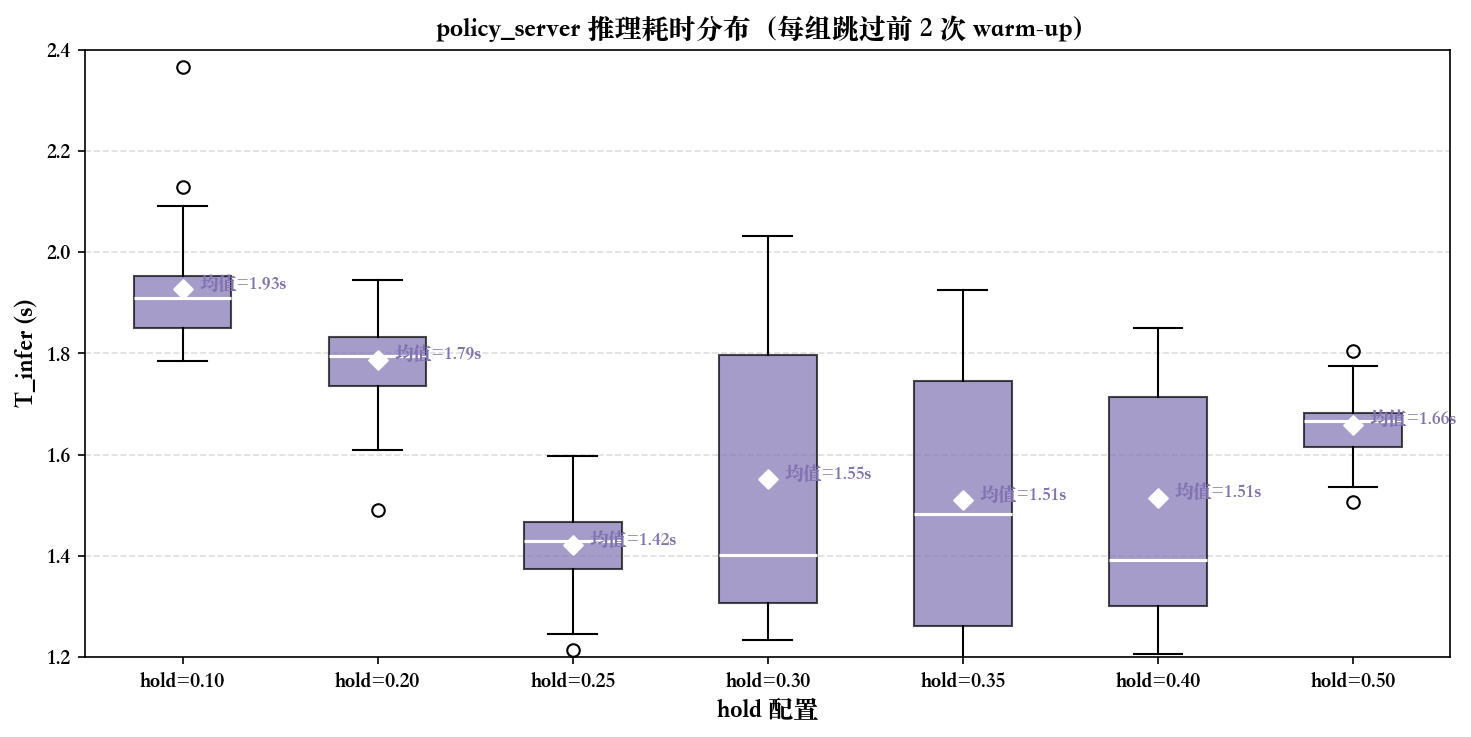
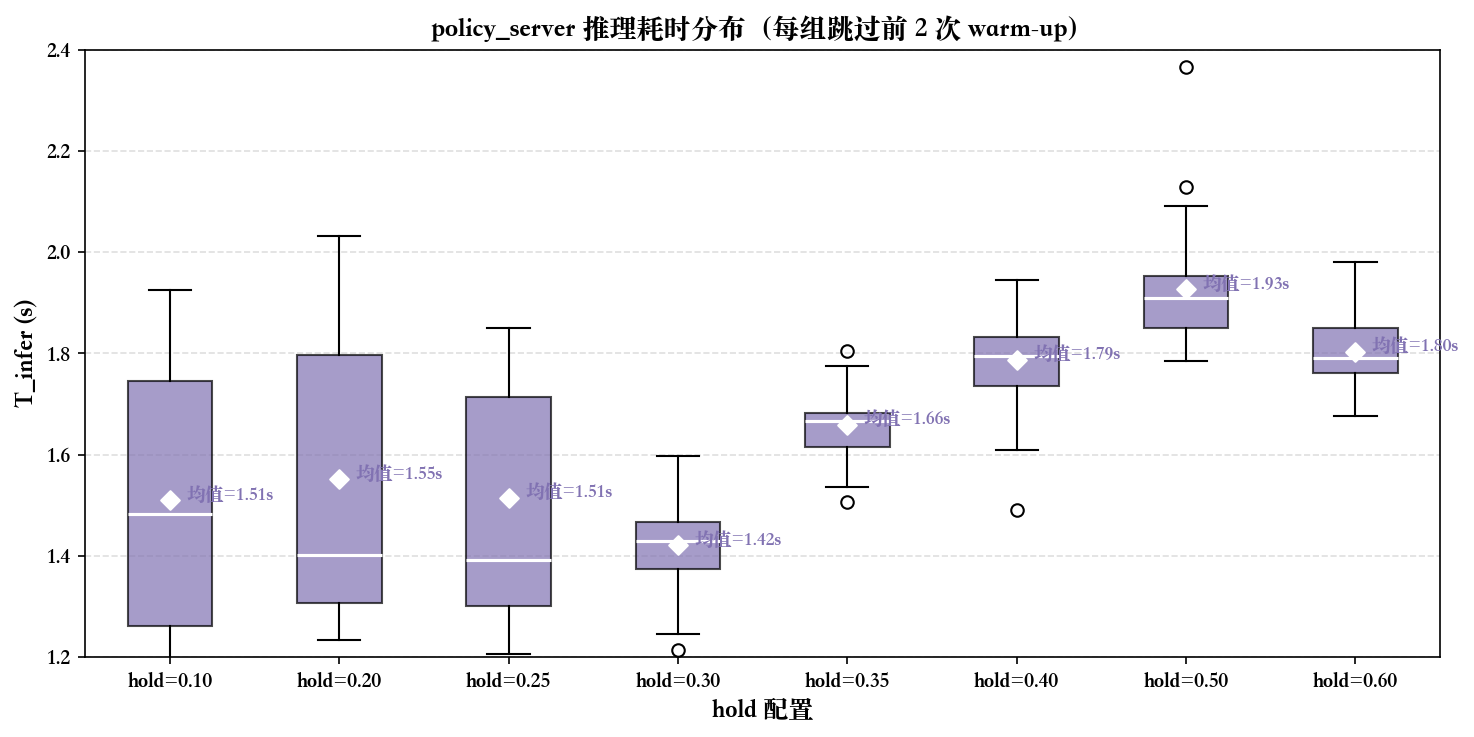
feat: 更新异步推理分析数据，调整数据合并和绘图逻辑，确保输出顺序一致

diff --git a/analysis/08_async_inference_hold_sweep/plot_async_sweep.py b/analysis/08_async_inference_hold_sweep/plot_async_sweep.py
@@ -111,45 +111,61 @@ def build_summary(
 
 def plot_fps(client: pd.DataFrame, labels: list[str], sync_fps: float, out_png: Path) -> None:
     fig, ax = plt.subplots(figsize=(10, 5))
-    x_async = client["hold"].to_numpy(dtype=float)
-    y_async = client["eff_fps"].to_numpy(dtype=float)
+
+    x_all = client["hold"].to_numpy(dtype=float)
+    y_all = client["eff_fps"].to_numpy(dtype=float)
 
     ax.plot(
-        x_async, y_async, color=C_ASYNC, linewidth=2.5, marker="o", markersize=10,
-        markerfacecolor="white", markeredgewidth=2, zorder=3, label="异步实测",
+        x_all, y_all, color=C_ASYNC, linewidth=2.5, marker="o", markersize=10,
+        markerfacecolor="white", markeredgewidth=2, zorder=3,
     )
-    for x, y in zip(x_async, y_async):
+    for x, y in zip(x_all, y_all):
         ax.annotate(
             f"{y:.1f}", (x, y), textcoords="offset points",
             xytext=(0, 12), ha="center", fontsize=10, color=C_ASYNC,
         )
 
-    # 二次多项式拟合趋势线
-    coeffs = np.polyfit(x_async, y_async, deg=2)
-    x_fit = np.linspace(min(x_async) - 0.05, max(x_async) + 0.05, 200)
-    y_fit = np.polyval(coeffs, x_fit)
-    y_pred = np.polyval(coeffs, x_async)
-    ss_res = np.sum((y_async - y_pred) ** 2)
-    ss_tot = np.sum((y_async - np.mean(y_async)) ** 2)
-    r2 = 1 - ss_res / ss_tot
     ax.plot(
-        x_fit, y_fit, color="#D95F02", linewidth=2, linestyle="-.",
-        alpha=0.8, zorder=2, label=f"二次拟合 ($R^2$={r2:.3f})",
+        [0.0], [sync_fps], color=C_SYNC, marker="s", markersize=8,
+        markerfacecolor="white", markeredgewidth=2, linestyle="None",
+        zorder=4, label="同步 baseline",
+    )
+    ax.annotate(
+        f"{sync_fps:.1f}", (0.0, sync_fps), textcoords="offset points",
+        xytext=(0, 12), ha="center", fontsize=10, color=C_SYNC,
     )
 
-    ax.axhline(y=sync_fps, color=C_SYNC, linestyle="--", linewidth=1.5, alpha=0.35, zorder=1)
-    ax.text(
-        x_async[0] - 0.03, sync_fps + 0.4,
-        f"同步 baseline={sync_fps:.1f}", ha="right", va="bottom",
-        fontsize=10, color=C_SYNC, alpha=0.5,
+    mask_left = (x_all >= 0.10) & (x_all <= 0.30)
+    x_left = np.concatenate(([0.0], x_all[mask_left]))
+    y_left = np.concatenate(([sync_fps], y_all[mask_left]))
+    coeffs = np.polyfit(x_left, y_left, deg=1)
+    x_fit = np.linspace(0.0, 0.30, 100)
+    y_fit = np.polyval(coeffs, x_fit)
+    ax.plot(
+        x_fit, y_fit, color="#D95F02", linewidth=2,
+        linestyle="-.", alpha=0.75, zorder=2.5,
+        label="线性趋势",
     )
+
+    # 平台区：从 0.30 开始横着，取 hold=0.30 的实测值（到达满帧）
+    plateau_value = float(y_all[x_all == 0.30][0])
+    ax.hlines(
+        plateau_value, xmin=0.30, xmax=0.62,
+        color="#8172B2", linewidth=2,
+        linestyle="-", alpha=0.75, zorder=2.5,
+        label=f"满帧运行 {plateau_value:.1f} FPS",
+    )
+
+    ax.axhline(y=sync_fps, color=C_SYNC, linestyle="--", linewidth=1.5, alpha=0.25, zorder=1)
 
     ax.set_xlabel("hold (chunk_size_threshold)", fontsize=12)
     ax.set_ylabel("有效 FPS (action_frames / episode_total_s)", fontsize=12)
     ax.set_title(f"异步推理 hold 扫描：有效 FPS 与同步 baseline 对比（60s/组）", fontsize=13)
-    ax.set_xlim(min(x_async) - 0.08, max(x_async) + 0.03)
-    ax.set_ylim(0, max(y_async.max(), sync_fps) * 1.15)
-    ax.legend(fontsize=10, loc="lower right")
+    ax.set_xlim(-0.03, 0.65)
+    ax.set_ylim(0, max(y_all.max(), sync_fps) * 1.15)
+    ax.set_xticks([0.0, 0.10, 0.20, 0.25, 0.30, 0.35, 0.40, 0.50, 0.60])
+    ax.set_xticklabels(["baseline", "0.10", "0.20", "0.25", "0.30", "0.35", "0.40", "0.50", "0.60"])
+    ax.legend(fontsize=10, loc="lower right", ncol=2)
     ax.grid(axis="y", linestyle="--", alpha=0.4, zorder=0)
 
     fig.tight_layout()
@@ -281,7 +297,8 @@ def main() -> None:
     args = parser.parse_args()
 
     _setup_fonts()
-    client = pd.read_csv(args.client_csv).sort_values("hold").reset_index(drop=True)
+    # 保持原始采集顺序先对齐 server 日志；对齐完成后再按 hold 排序用于绘图。
+    client_raw = pd.read_csv(args.client_csv).reset_index(drop=True)
     # server CSV 可能无 header
     with open(args.server_csv, newline="") as f:
         first_line = f.readline().strip()
@@ -292,9 +309,13 @@ def main() -> None:
         server = pd.read_csv(args.server_csv, header=None, names=["episode_idx", "timestep", "t_infer_s"])
     sync_fps = load_sync_fps(args.sync_csv, args.sync_tag)
 
-    client["eff_fps"] = client["action_frames"] / client["episode_total_s"]
+    client_raw["eff_fps"] = client_raw["action_frames"] / client_raw["episode_total_s"]
+    tinfer_raw = split_server_tinfer(server, client_raw, args.skip_warmup)
+
+    order = np.argsort(client_raw["hold"].to_numpy(dtype=float))
+    client = client_raw.iloc[order].reset_index(drop=True)
+    tinfer_data = [tinfer_raw[i] for i in order]
     labels = [f"{h:.2f}" for h in client["hold"]]
-    tinfer_data = split_server_tinfer(server, client, args.skip_warmup)
 
     args.outdir.mkdir(parents=True, exist_ok=True)
     summary = build_summary(client, tinfer_data, sync_fps)

diff --git a/analysis/08_async_inference_hold_sweep/merge_async_stats.py b/analysis/08_async_inference_hold_sweep/merge_async_stats.py
@@ -100,7 +100,8 @@ def main() -> None:
     parser.add_argument("--skip-warmup", "--skip_warmup", type=int, default=2)
     args = parser.parse_args()
 
-    client = pd.read_csv(args.client_csv).sort_values("hold").reset_index(drop=True)
+    # 先保持 client 的原始采集顺序对齐 server；合并后再按 hold 排序输出。
+    client = pd.read_csv(args.client_csv).reset_index(drop=True)
     # server CSV 可能无 header（policy_server 在文件被删后若进程未重启会漏写 header）
     with open(args.server_csv, newline="") as f:
         first_line = f.readline().strip()
@@ -126,7 +127,7 @@ def main() -> None:
     else:
         tinfer = summarize_by_row_split(client, server, args.skip_warmup)
 
-    merged = client.merge(tinfer, on="episode_idx", how="left")
+    merged = client.merge(tinfer, on="episode_idx", how="left").sort_values("hold").reset_index(drop=True)
     args.output.parent.mkdir(parents=True, exist_ok=True)
     merged.to_csv(args.output, index=False, float_format="%.4f")
     print(f"对齐模式: {mode}")
